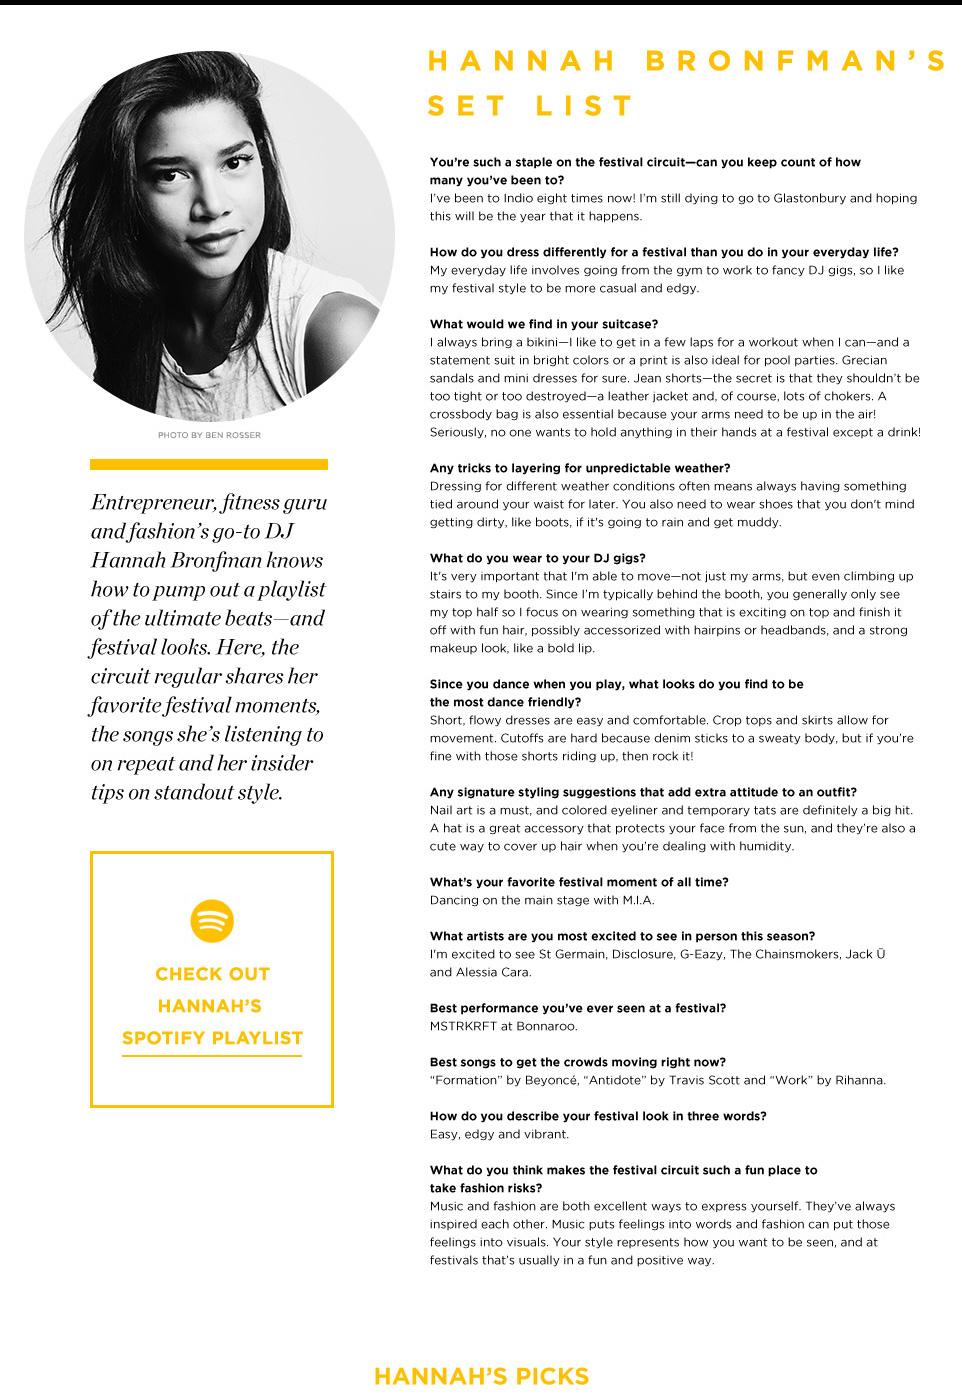
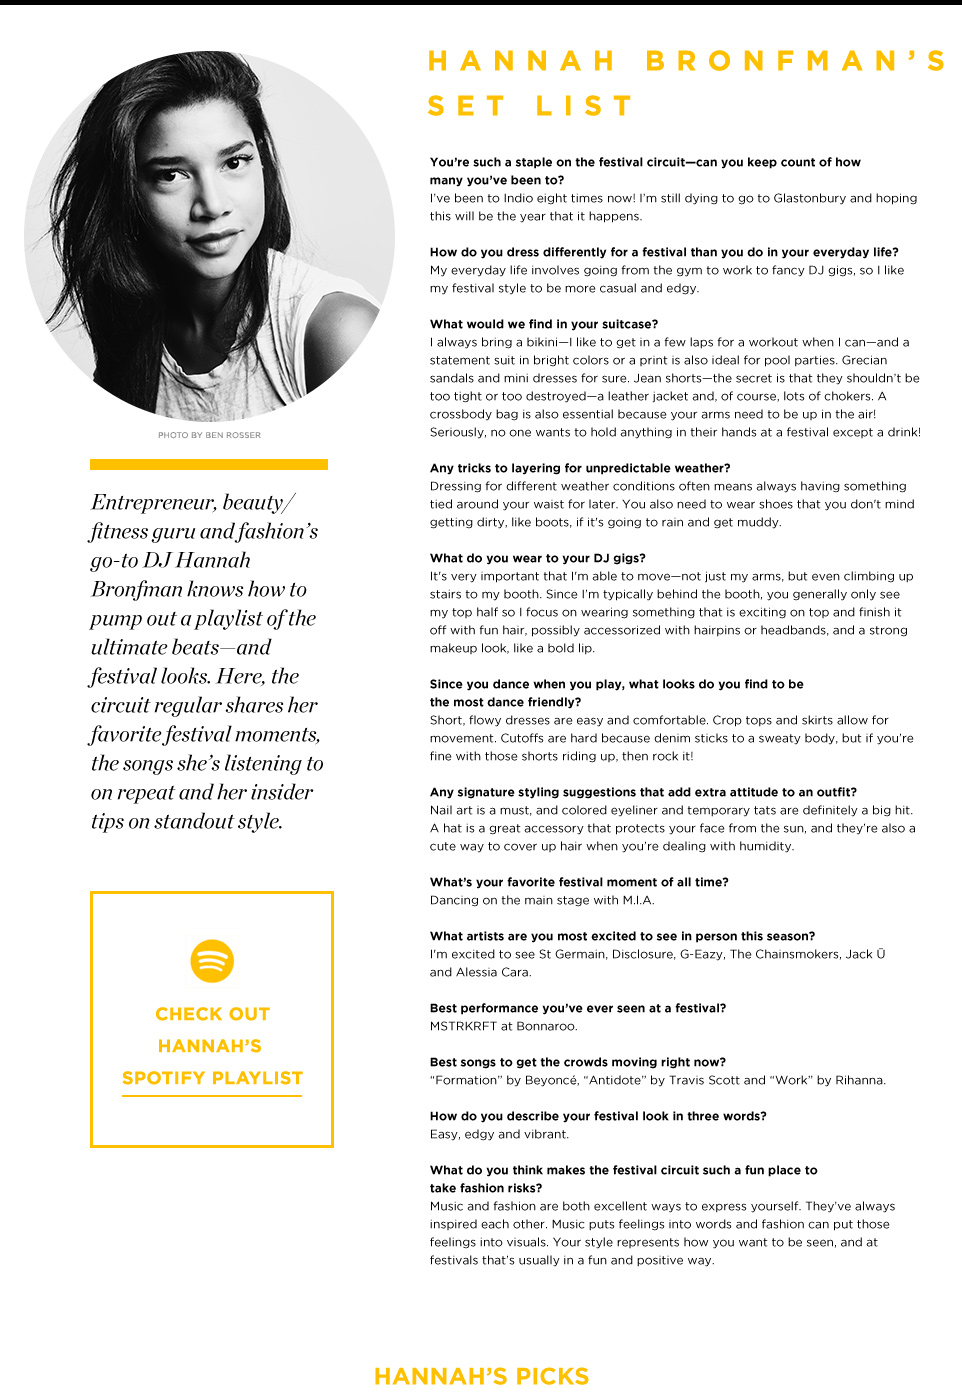
B-41961 - Swap images 3 images on Deskopt and update text on mobile - UAT Callout

Changed region(s): [[0.0936, 0.3386, 0.343, 0.8003], [0.0936, 0.8003, 0.1247, 0.8311]]

diff --git a/server/lib/views/lookbooks/spring-2016-womens-festival/index-mobile.html b/server/lib/views/lookbooks/spring-2016-womens-festival/index-mobile.html
@@ -74,7 +74,7 @@
     <section id="mobile_section4">
         <article id="mobile_section4_1">
             <img id="mobile_section4_1_img" class="lazy" data-original="/fashion/images/projects/lookbooks/spring-2016-womens-festival/mobile_section4_1.jpg" alt=""/>
-            <p class="mobile_womens_festival_custom_annah_subtitle">Entrepreneur, fitness guru and fashion&rsquo;s go-to DJ Hannah Bronfman knows how to pump out a playlist of the ultimate beats&mdash;and festival looks.</p>
+            <p class="mobile_womens_festival_custom_annah_subtitle">Entrepreneur, beauty/fitness guru and fashion&rsquo;s go-to DJ Hannah Bronfman knows how to pump out a playlist of the ultimate beats&mdash;and festival looks.</p>
             <p class="margin_top_20 mobile_womens_festival_custom_annah_interview"><strong>How do you dress differently for a festival than you do in your everyday life?</strong></p>
             <p class="mobile_womens_festival_custom_annah_interview">My everyday life involves going from the gym to work to fancy DJ gigs, so I like my festival style to be more casual and edgy.</p>
             <p class="mobile_womens_festival_custom_annah_interview"><strong>What would we find in your suitcase?</strong></p>

diff --git a/public/styles/projects/lookbooks/spring-2016-womens-festival/style.scss b/public/styles/projects/lookbooks/spring-2016-womens-festival/style.scss
@@ -671,6 +671,6 @@ ul {
 	.womens_festival_playlist_img {
 		position: absolute;
 		left: 9.25%;
-		top: 60.8%;
+		top: 63.7%;
 		width: 25.5% !important;
 	}
